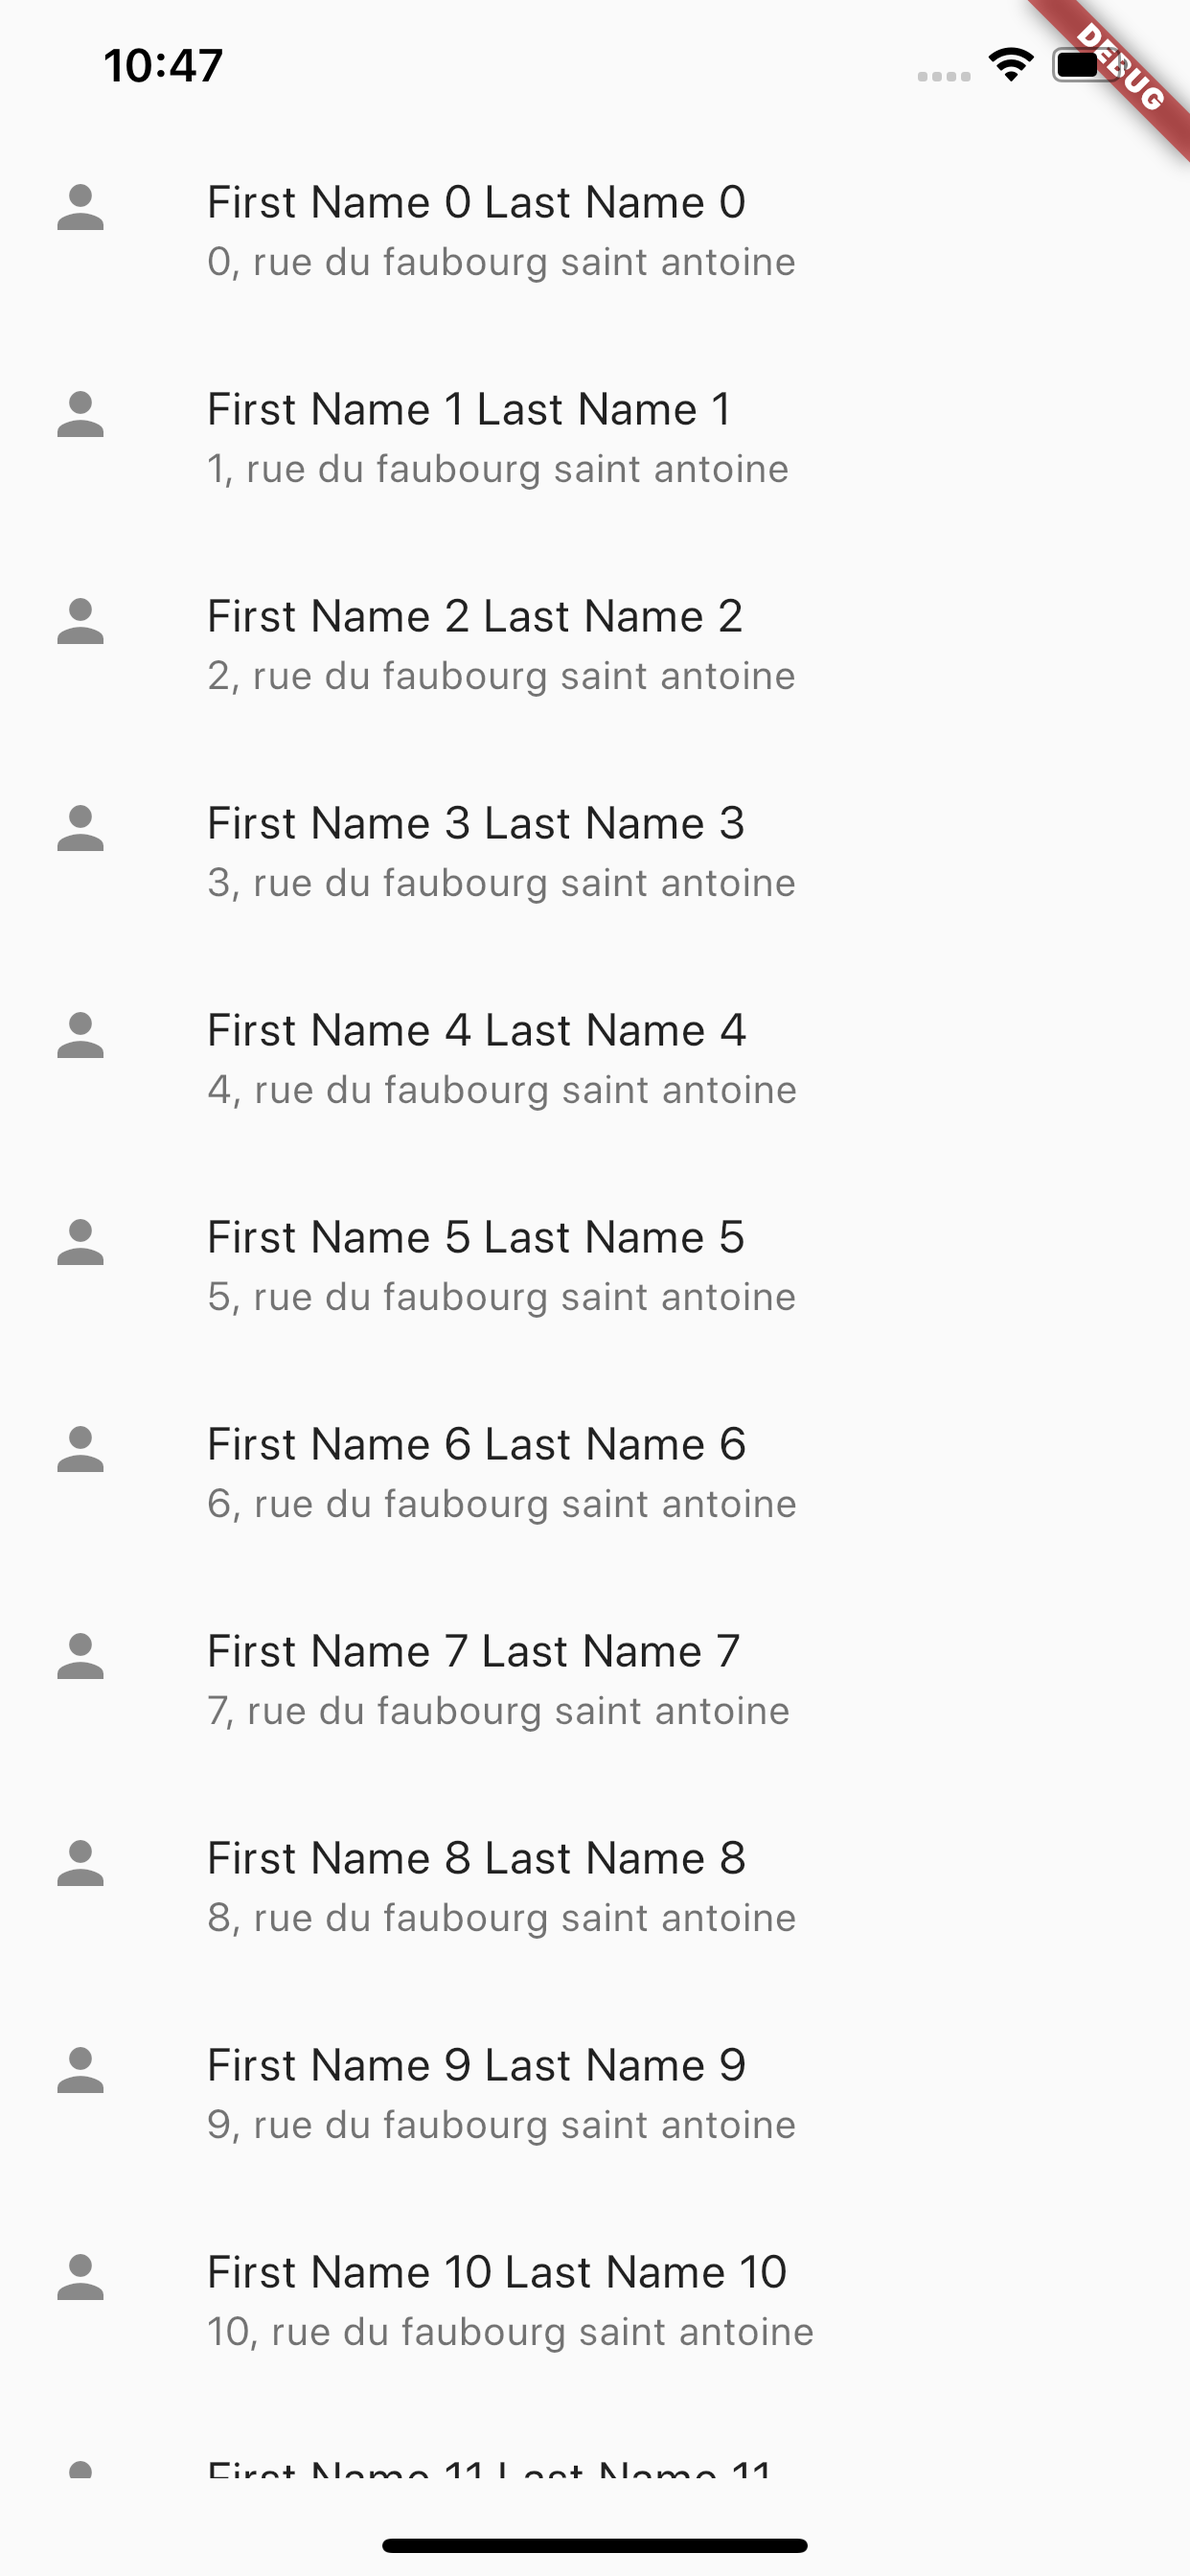
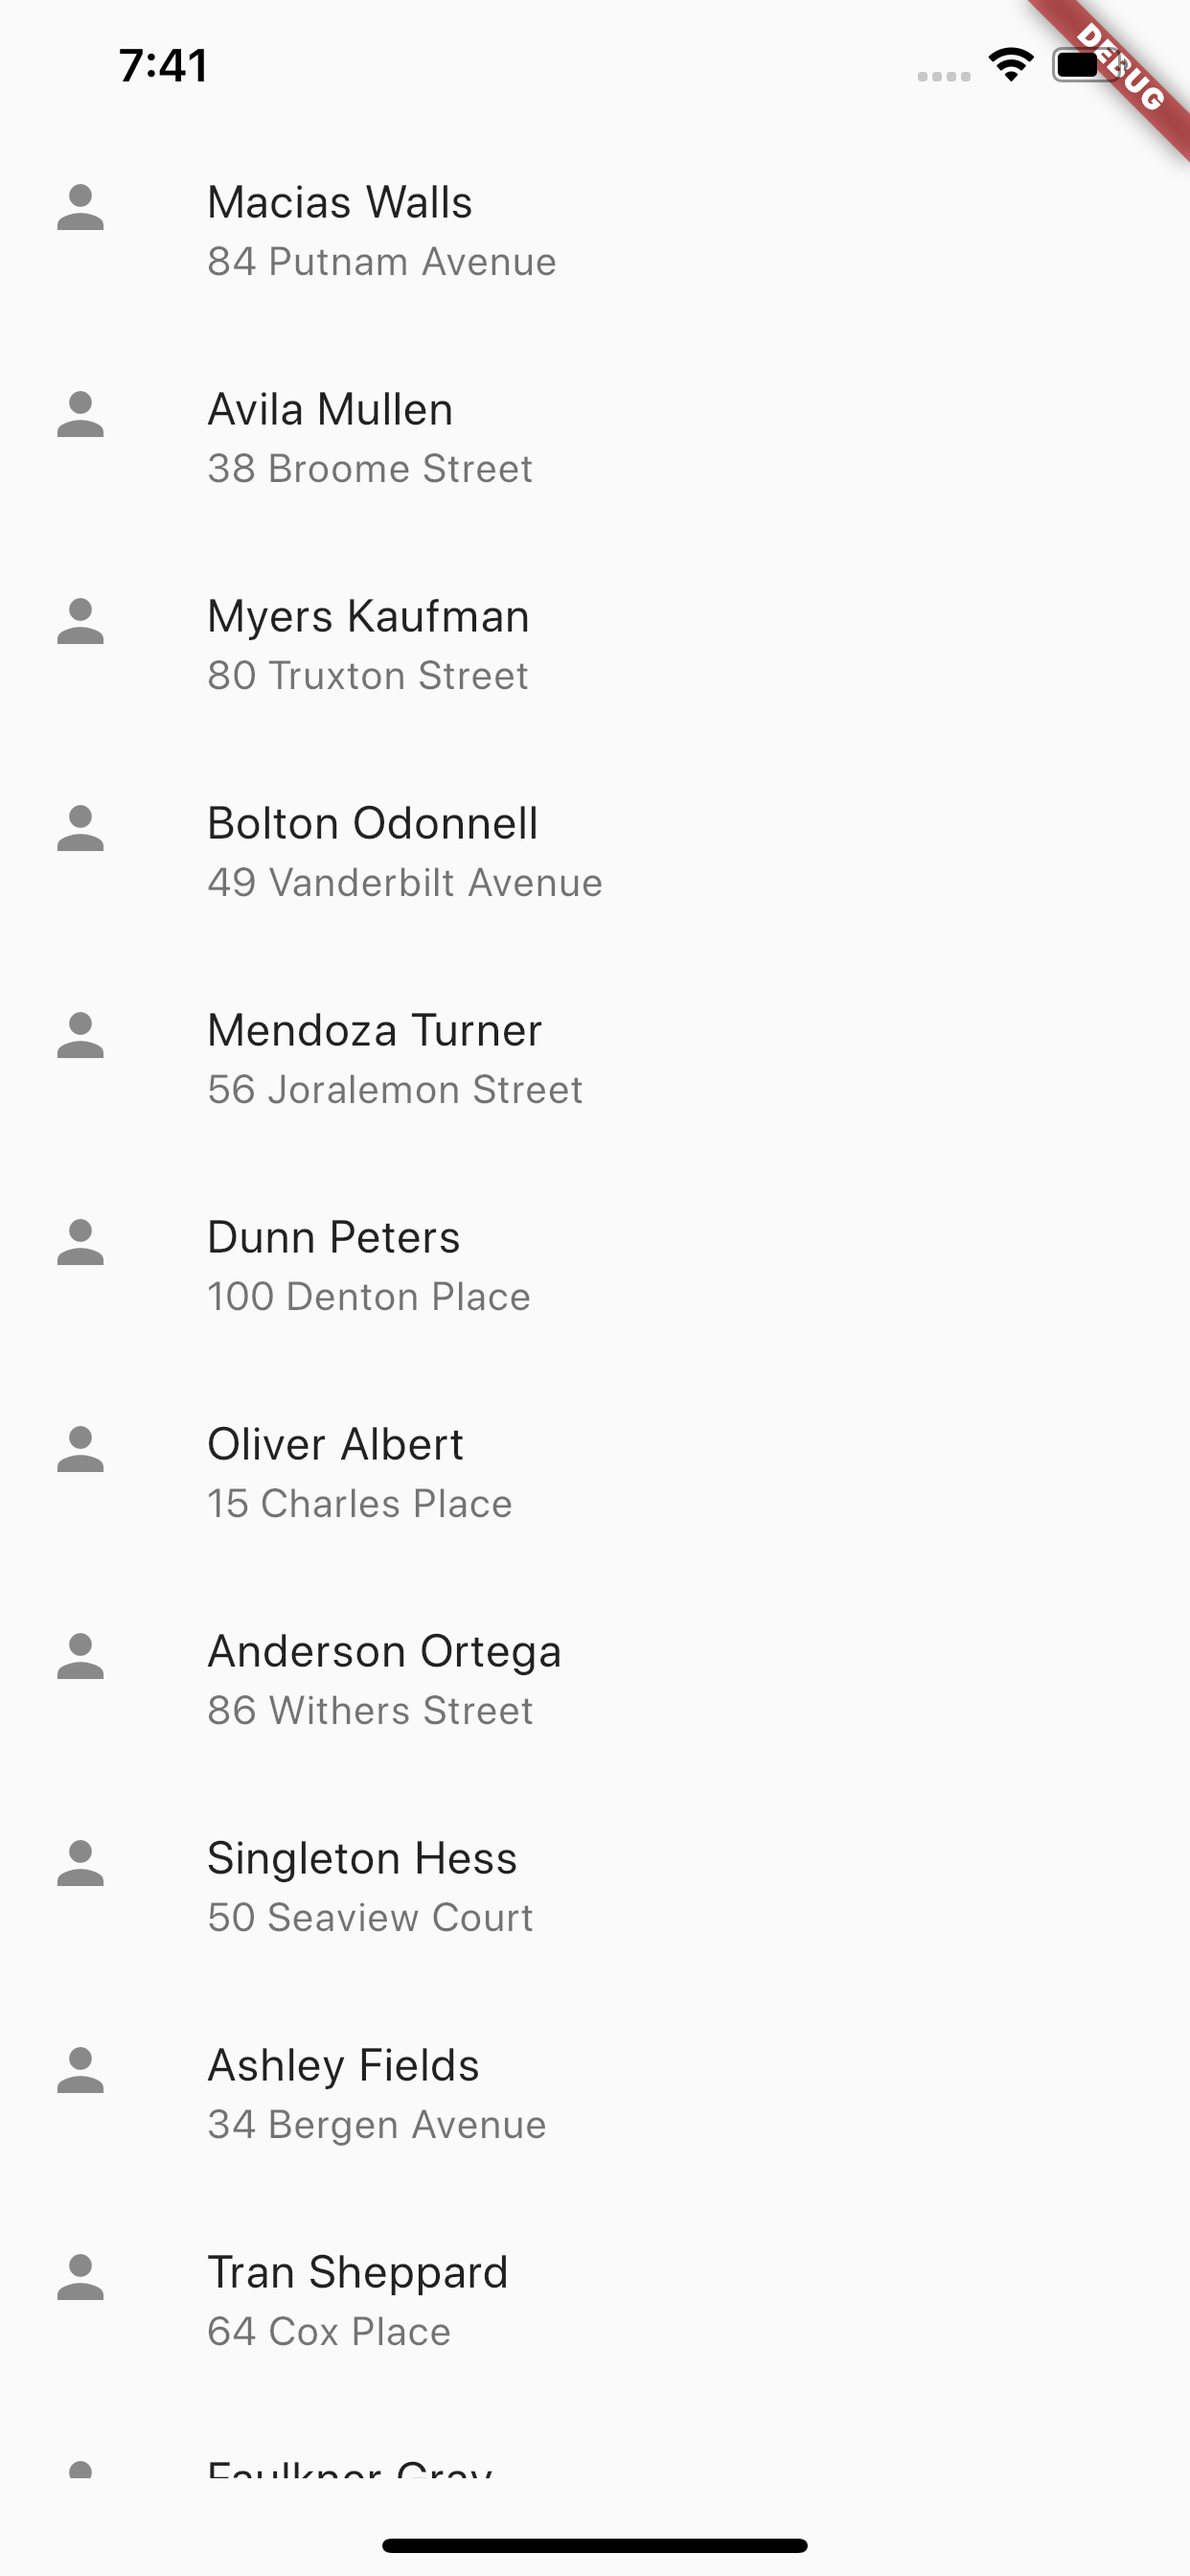
Add lesson 6 about webservices

diff --git a/lib/solution/solution.dart b/lib/solution/solution.dart
@@ -1,4 +1,5 @@
 import 'package:flutter/material.dart';
+import 'package:flutterlessons/solution/api_services.dart';
 import 'package:flutterlessons/solution/user.dart';
 import 'package:flutterlessons/solution/user_item.dart';
 
@@ -23,22 +24,50 @@ class MyApp extends StatelessWidget {
 }
 
 class Home extends StatelessWidget {
-  final List<User> _users = List.generate(100, (int index) {
-    return User(
-      "Last Name $index",
-      "First Name $index",
-      "$index, rue du faubourg saint antoine",
-    );
-  });
-
   @override
   Widget build(BuildContext context) {
     return Scaffold(
       body: SafeArea(
-        child: ListView.builder(
-          itemCount: _users.length,
-          itemBuilder: (BuildContext context, int index) {
-            return UserItem(user: _users[index],);
+        child: FutureBuilder(
+          future: ApiServices.getUsers(),
+          builder: (BuildContext context, AsyncSnapshot snapshot) {
+            switch (snapshot.connectionState) {
+              case ConnectionState.waiting:
+                return Center(
+                  child: CircularProgressIndicator(),
+                );
+                break;
+              case ConnectionState.done:
+                if (snapshot.hasError) {
+                  return Center(
+                    child: Text("Error: ${snapshot.error}"),
+                  );
+                }
+                if (snapshot.hasData) {
+                  final List<User> users = snapshot.data;
+                  if (users.isEmpty) {
+                    return Center(
+                      child: Text("Empty list"),
+                    );
+                  }
+                  return ListView.builder(
+                    itemCount: users.length,
+                    itemBuilder: (BuildContext context, int index) {
+                      return UserItem(
+                        user: users[index],
+                      );
+                    },
+                  );
+                } else {
+                  return Center(
+                    child: Text("No data"),
+                  );
+                }
+                break;
+              default:
+                return Container();
+                break;
+            }
           },
         ),
       ),

diff --git a/lib/solution/api_services.dart b/lib/solution/api_services.dart
@@ -1,0 +1,19 @@
+import 'dart:convert';
+
+import 'package:flutterlessons/solution/user.dart';
+import 'package:http/http.dart' as http;
+
+class ApiServices {
+  static Future<List<User>> getUsers() async {
+    final response =
+        await http.get("https://next.json-generator.com/api/json/get/NyC4XoSvu?delay=2000");
+    if (response.statusCode != 200) {
+      throw Error();
+    }
+    final jsonBody = json.decode(response.body);
+    final List<User> users = [];
+    users.addAll((jsonBody as List).map((user) => User.fromJson(user)).toList());
+
+    return users;
+  }
+}

diff --git a/lib/solution/user.dart b/lib/solution/user.dart
@@ -4,4 +4,12 @@ class User {
   final String address;
 
   User(this.lastName, this.firstName, this.address);
+
+  factory User.fromJson(Map<String, dynamic> json) {
+    return User(
+      json["lastName"],
+      json["firstName"],
+      json["address"],
+    );
+  }
 }

diff --git a/README.md b/README.md
@@ -1,15 +1,13 @@
 # Flutter Lessons
 
-## Lesson 5 : Learning about Lists
+## Lesson 6 : Web Services
 
 In this lesson we are going to speak about:
-* Columns
-* SingleChildScrollView
-* ListView
-* ListView.builder()
-* List.generate()
-* ListTile
+* Making http calls
+* Understanding Futures
+* Handling calls in state
+* Handling calls with FutureBuilder widget
 
 ## Expected result
 
-<img src="https://raw.githubusercontent.com/ThomasEcalle/flutter_lessons/5-lists/readme_resources/solution.png" width="140" height="280" hspace="20"/>
+<img src="https://raw.githubusercontent.com/ThomasEcalle/flutter_lessons/6-webservices/readme_resources/solution.png" width="140" height="280" hspace="20"/>
